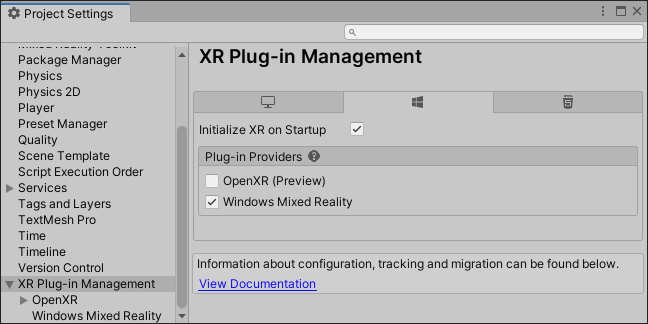
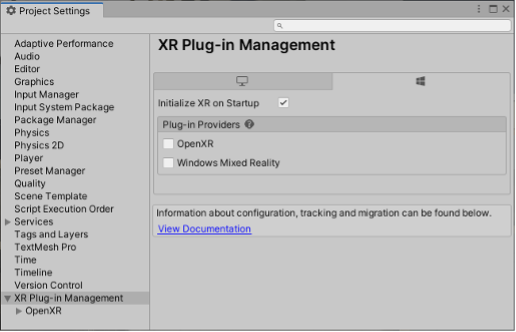
Update OpenXR content

diff --git a/mixed-reality-docs/mr-dev-docs/develop/unity/Configure-Unity-Project.md b/mixed-reality-docs/mr-dev-docs/develop/unity/Configure-Unity-Project.md
@@ -52,8 +52,8 @@ After setting your platform, you need to let Unity know to create an [immersive 
 ![Screenshot of Project settings window open in unity editor with XR Plugin management highlighted](images/wmr-config-img-7.png)
 
 4. Expand the **XR Plug-in Management** section and select **Univeral Windows Platform Settings** tab
-5. If you're using Unity 2020 or later, you'll see the options to check **OpenXR (preview)** or **Windows Mixed Reality**. 
-    * You can choose either runtime.  If you're specifically developing for the HoloLens 2 or the HP Reverb G2 and decide to try the **OpenXR (preview)**, select the OpenXR (preview) box and review our guide to [Using the Mixed Reality OpenXR Plugin for Unity](openxr-getting-started.md) to get yourself set up correctly for these devices before returning to this tutorial
+5. If you're using Unity 2020 or later, you'll see the options to check **OpenXR** or **Windows Mixed Reality**. 
+    * You can choose either runtime.  If you're specifically developing for the HoloLens 2 or the HP Reverb G2 and decide to try the **OpenXR**, select the OpenXR box and review our guide to [Using the Mixed Reality OpenXR Plugin for Unity](openxr-getting-started.md) to get yourself set up correctly for these devices before returning to this tutorial
 
 > [!NOTE]
 > Starting in Unity 2020 LTS, Microsoft is embracing development with OpenXR.  As we migrate to this path, in Unity 2021.1 the Windows XR plugin will be deprecated and removed in 2021.2 making OpenXR the only supported path. You can find more information in [Using the Mixed Reality OpenXR plugin](openxr-getting-started.md).
